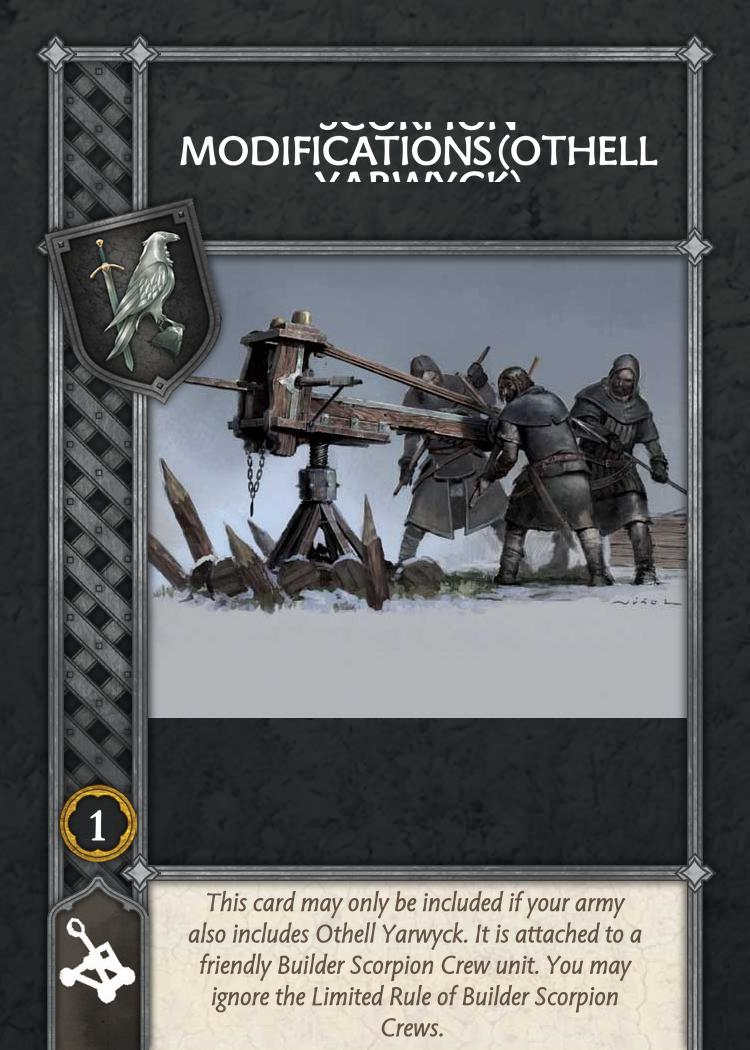
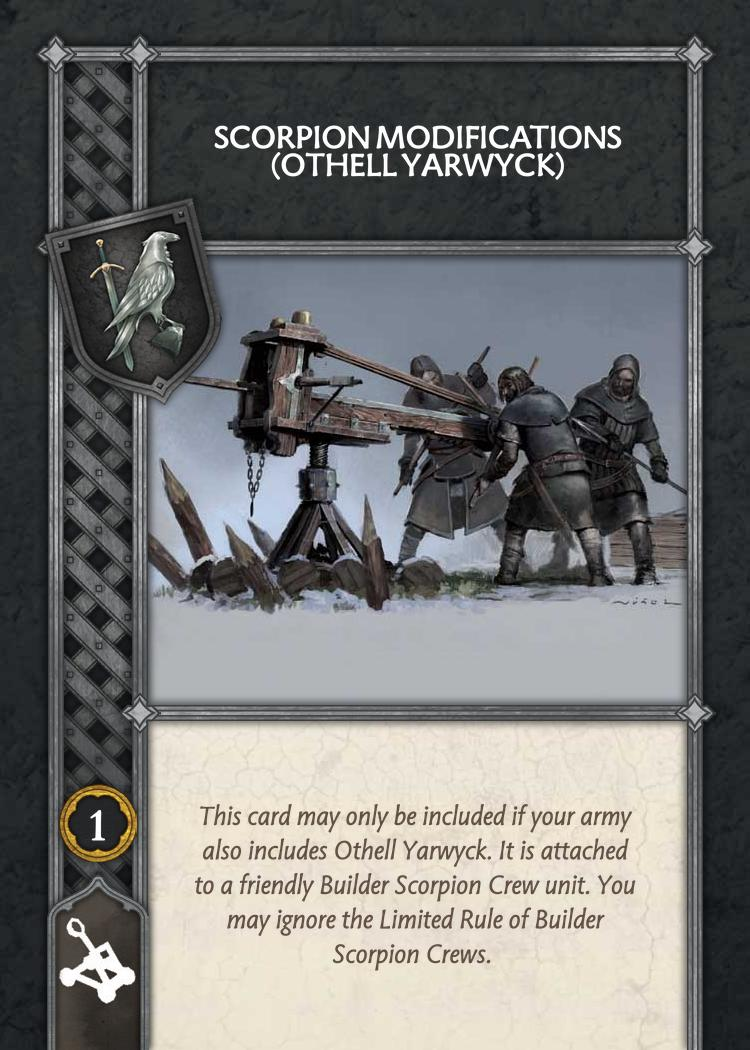
scorpion mods hackfix

Changed region(s): [[0.1533, 0.64, 0.9507, 1.0], [0.2453, 0.0914, 0.8587, 0.1829]]

diff --git a/py/generate_attachments.py b/py/generate_attachments.py
@@ -231,8 +231,12 @@ def generate_attachment_back(asset_manager, attachment_id, name, subname, attach
     elif requirements is not None:
         requirement_y = 985 - len(requirements) * 112
         # FIXME: Hack alert
+        # jaqen, reaver captain
         if attachment_id in ["20221", "20805"]:
             requirement_y -= 70
+        # scorpion mods
+        elif attachment_id in ["20521", "20517"]:
+            requirement_y -= 160
         text_bg = asset_manager.get_text_bg().crop((0, 0, portrait.width, 1000))
         attachment_card.paste(text_bg, (135, requirement_y))
         bars.alpha_composite(small_bar.crop((0, 0, 560, small_bar.size[1])), (140, requirement_y - sb_h // 2))
@@ -294,8 +298,9 @@ def generate_attachment_back(asset_manager, attachment_id, name, subname, attach
         rd_name = renderer_name.render()
         layer_text.alpha_composite(rd_name, (158, 92))
     else:
-        renderer_name = TextRenderer(name.upper(), "Tuff", (520, 60), asset_manager, font_size=54, bold=True, font_color="white", leading=1,
-                                     stroke_width=0.1, align_y=TextRenderer.ALIGN_CENTER)
+        name_fs = 44 if attachment_id in ["20521", "20517"] else 54
+        renderer_name = TextRenderer(name.upper(), "Tuff", (520, 60), asset_manager, font_size=name_fs, bold=True, font_color="white",
+                                     leading=1, stroke_width=0.1, align_y=TextRenderer.ALIGN_CENTER)
         rd_name = renderer_name.render()
         layer_text.alpha_composite(rd_name, (158, 122))
 
